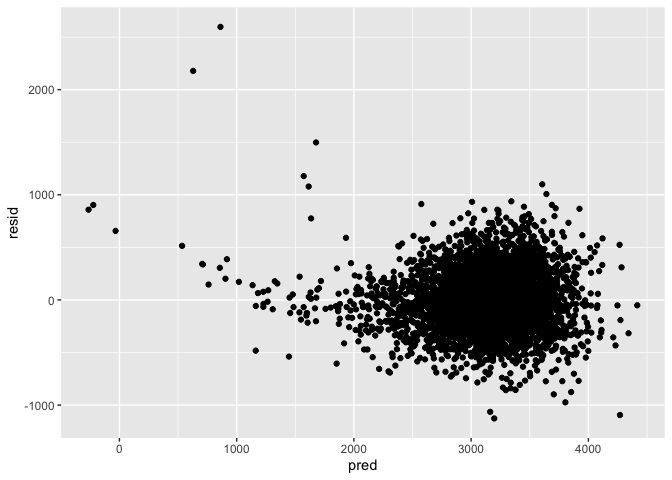
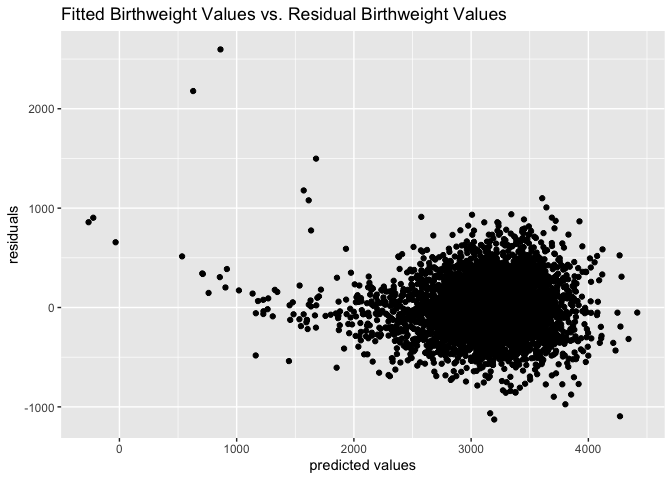
final commits

diff --git a/p8105_hw6_stl2137.md b/p8105_hw6_stl2137.md
@@ -36,7 +36,13 @@ birthweight_model <- lm(bwt ~ babysex + bhead + blength + gaweeks + malform + sm
 birthweight_data %>% 
   modelr::add_predictions(birthweight_model) %>% 
   modelr::add_residuals(birthweight_model) %>% 
-  ggplot(aes(x = pred, y = resid)) + geom_point()
+  ggplot(aes(x = pred, y = resid)) + 
+  geom_point() +
+  labs(
+    title = "Fitted Birthweight Values vs. Residual Birthweight Values",
+    x = "predicted values",
+    y = "residuals"
+  )
 ```
 
 ![](p8105_hw6_stl2137_files/figure-gfm/unnamed-chunk-2-1.png)<!-- -->
@@ -112,16 +118,14 @@ weather_df =
 
     ## file min/max dates: 1869-01-01 / 2019-09-30
 
-## MAKE SURE CHANGE TO 5000
-
-Bootstrap for \(r^2\)
+### Bootstrap for r.squared
 
 ``` r
 simple_temp_model <- lm(tmax ~ tmin, data = weather_df) 
 
 r.squared_bootstrap <-
   weather_df %>%
-  bootstrap(50) %>% 
+  bootstrap(5000) %>% 
   mutate(
     model = map(strap, ~lm(tmax ~ tmin, data = .x)),
     results = map(model, broom::glance)
@@ -144,14 +148,20 @@ quantile(r.squared_bootstrap[[1]], c(0.025, 0.975))
 ```
 
     ##      2.5%     97.5% 
-    ## 0.8970903 0.9256513
+    ## 0.8943312 0.9271008
 
-Bootstrap for \(log(\hat{\beta_0}+\hat{\beta_1})\)
+The distribution of r.squared values appears to be normal around 0.91
+with mild left skewness.
+
+We are 95% confident that the true value of r.squared is between
+0.8935077 and 0.9274548.
+
+### Bootstrap for log of (beta0 + beta1)
 
 ``` r
 log_betas_bootstrap <-
   weather_df %>%
-  bootstrap(50) %>% 
+  bootstrap(5000) %>% 
   mutate(
     model = map(strap, ~lm(tmax ~ tmin, data = .x)),
     results = map(model, broom::tidy)
@@ -188,4 +198,9 @@ quantile(log_betas_bootstrap[[1]], c(0.025, 0.975))
 ```
 
     ##     2.5%    97.5% 
-    ## 2.066265 2.179031
+    ## 2.051930 2.165621
+
+The log(beta0+beta1) appears to be normally distributed around 2.11.
+
+We are 95% confident that the true value of log(beta0+beta1) is between
+2.053950 and 2.164993.
